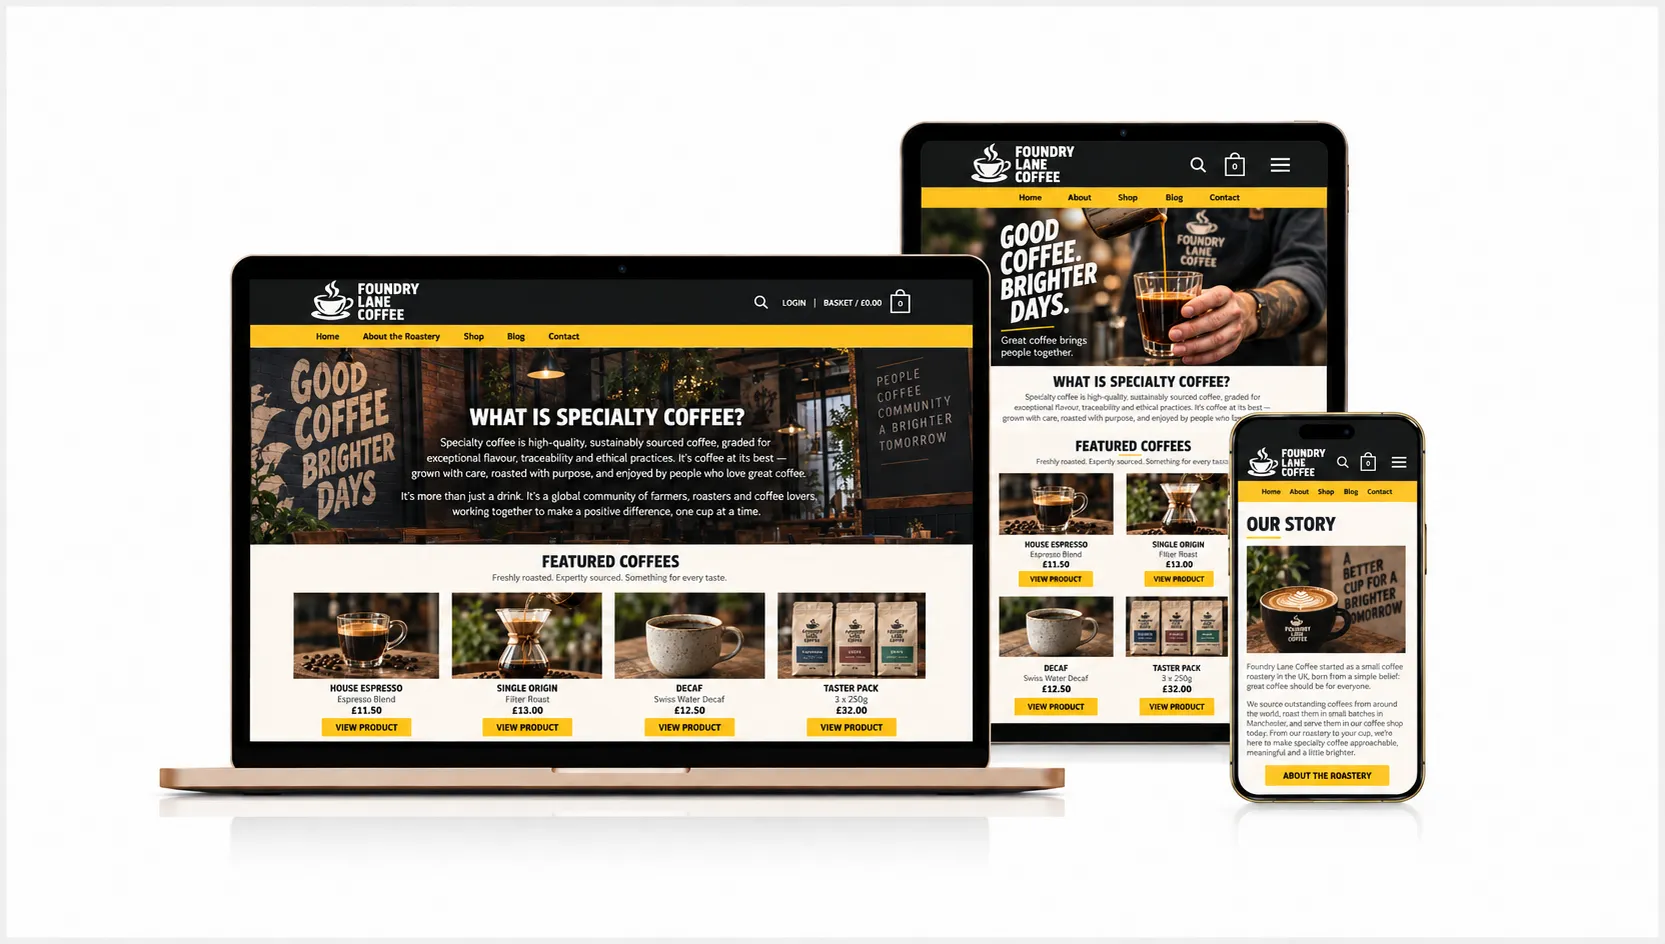
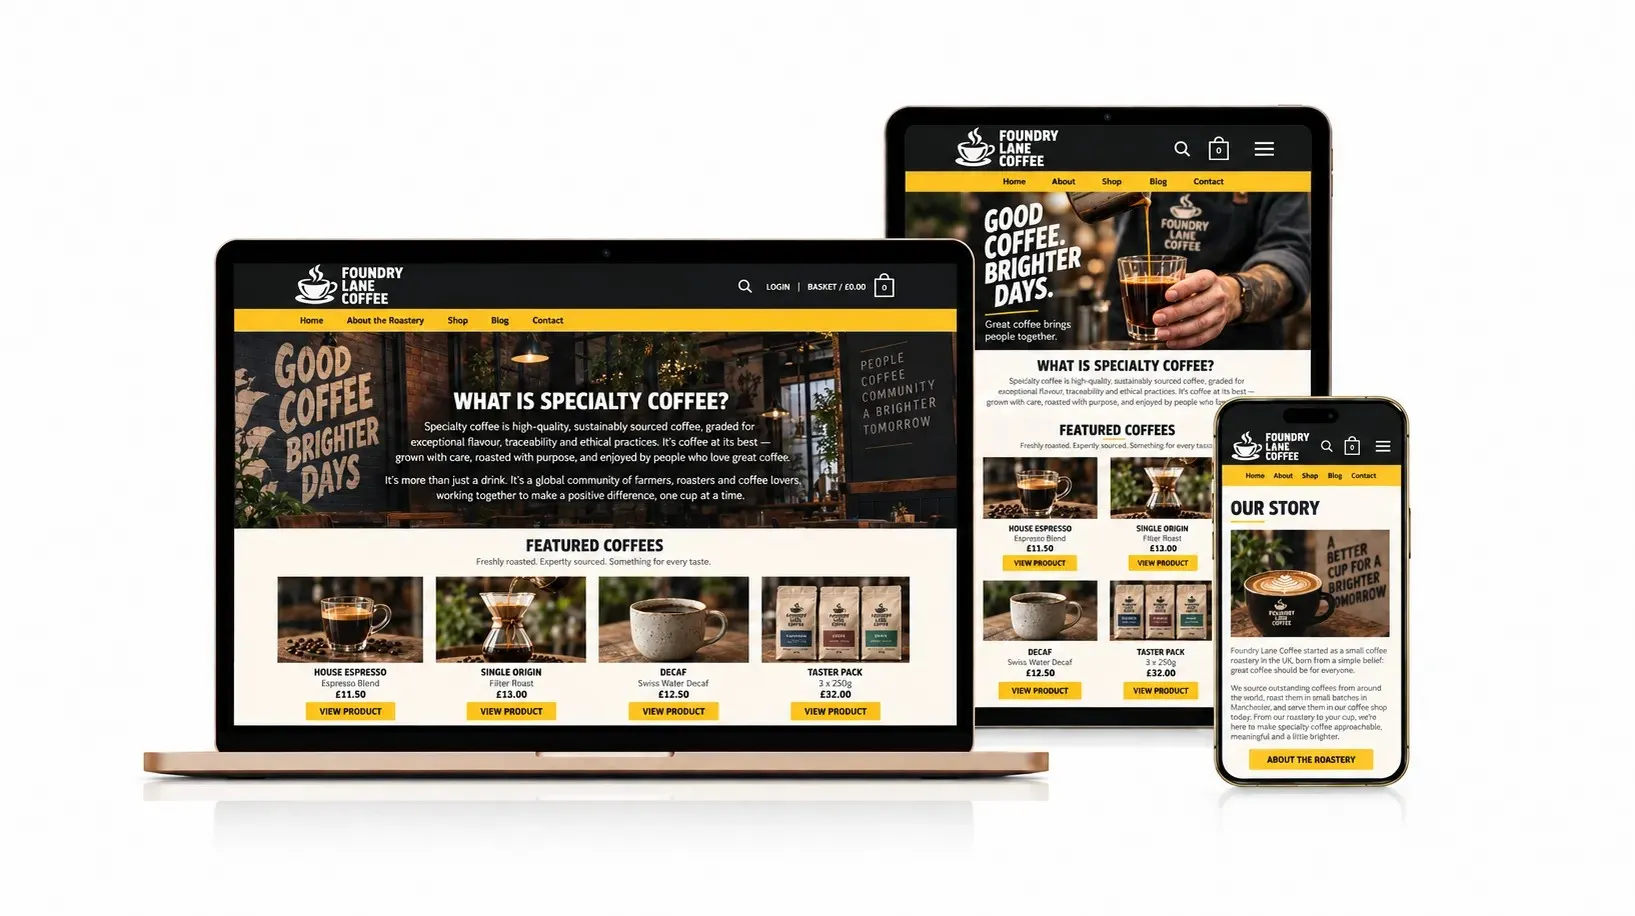
Update coffee shop cover image and feature it plus property business on home page
Update width/height attributes for the re-exported coffee shop cover
image. Replace the home page's two "Featured work" placeholder tiles
with real cover images: the local coffee shop and property business
case studies, each with the cover image, hover overlay and link to its
case study page, matching the Work page grid pattern.

Changed region(s): [[0.0624, 0.0917, 0.8734, 0.8865]]

diff --git a/index.html b/index.html
@@ -145,18 +145,18 @@
         </div>
 
         <div class="showcase-visual-grid">
-          <a class="showcase-visual" href="case-studies/dorset-plumbing/">
-            <span class="showcase-visual-label">Project image</span>
-            <div class="showcase-visual-overlay">
-              <h3>A new website for a Dorset plumbing business</h3>
-              <p>A clearer online presence for a growing local business.</p>
-            </div>
-          </a>
           <a class="showcase-visual" href="case-studies/local-coffee-shop/">
-            <span class="showcase-visual-label">Project image</span>
+            <img class="showcase-visual-image" src="assets/case-studies/local-coffee-shop/foundrylancoffee-cover.webp" alt="Desktop homepage of the Foundry Lane Coffee website" loading="lazy" width="1635" height="916">
             <div class="showcase-visual-overlay">
               <h3>A new website for a local coffee shop</h3>
               <p>A simple website that reflects the character of the business.</p>
+            </div>
+          </a>
+          <a class="showcase-visual" href="case-studies/property-content/">
+            <img class="showcase-visual-image" src="assets/case-studies/property-content/stonebridgepropertyinvestments-cover.webp" alt="Desktop homepage of the Stonebridge Property Investments website" loading="lazy" width="1638" height="910">
+            <div class="showcase-visual-overlay">
+              <h3>Restructuring website content for a property business</h3>
+              <p>Bringing a complex range of property services into a clearer structure.</p>
             </div>
           </a>
         </div>

diff --git a/work/index.html b/work/index.html
@@ -108,7 +108,7 @@
                 </div>
               </a>
               <a class="showcase-visual" href="../case-studies/local-coffee-shop/">
-                <img class="showcase-visual-image" src="../assets/case-studies/local-coffee-shop/foundrylancoffee-cover.webp" alt="Desktop homepage of the Foundry Lane Coffee website" loading="lazy" width="1665" height="944">
+                <img class="showcase-visual-image" src="../assets/case-studies/local-coffee-shop/foundrylancoffee-cover.webp" alt="Desktop homepage of the Foundry Lane Coffee website" loading="lazy" width="1635" height="916">
                 <div class="showcase-visual-overlay">
                   <h3>A new website for a local coffee shop</h3>
                   <p>A simple website that reflects the character of the business.</p>

diff --git a/case-studies/local-coffee-shop/index.html b/case-studies/local-coffee-shop/index.html
@@ -85,7 +85,7 @@
         </div>
 
         <div class="case-study-placeholder">
-          <img class="case-study-placeholder-image case-study-placeholder-image-zoom-out" src="../../assets/case-studies/local-coffee-shop/foundrylancoffee-cover.webp" alt="Desktop homepage of the Foundry Lane Coffee website" loading="lazy" width="1665" height="944">
+          <img class="case-study-placeholder-image case-study-placeholder-image-zoom-out" src="../../assets/case-studies/local-coffee-shop/foundrylancoffee-cover.webp" alt="Desktop homepage of the Foundry Lane Coffee website" loading="lazy" width="1635" height="916">
         </div>
 
         <div class="case-study-overview">
